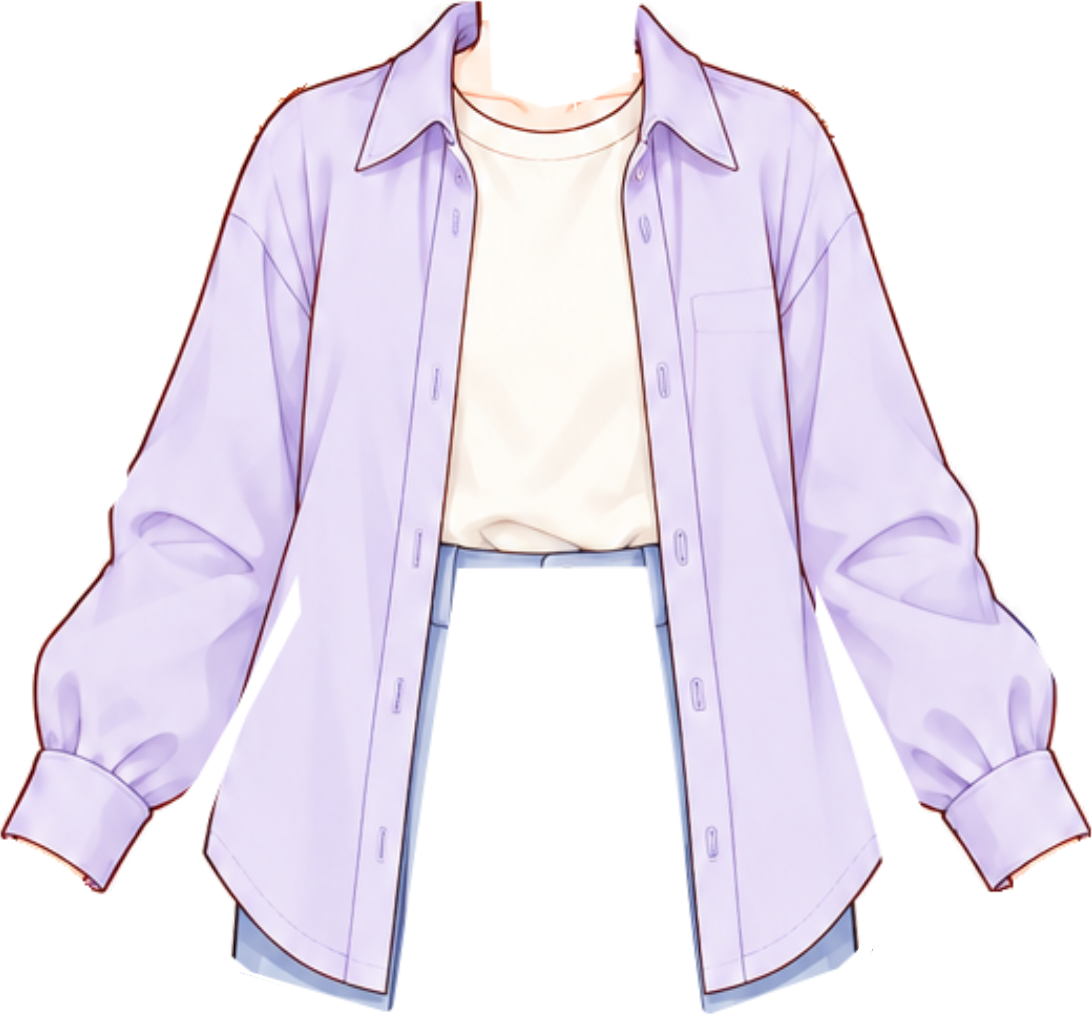
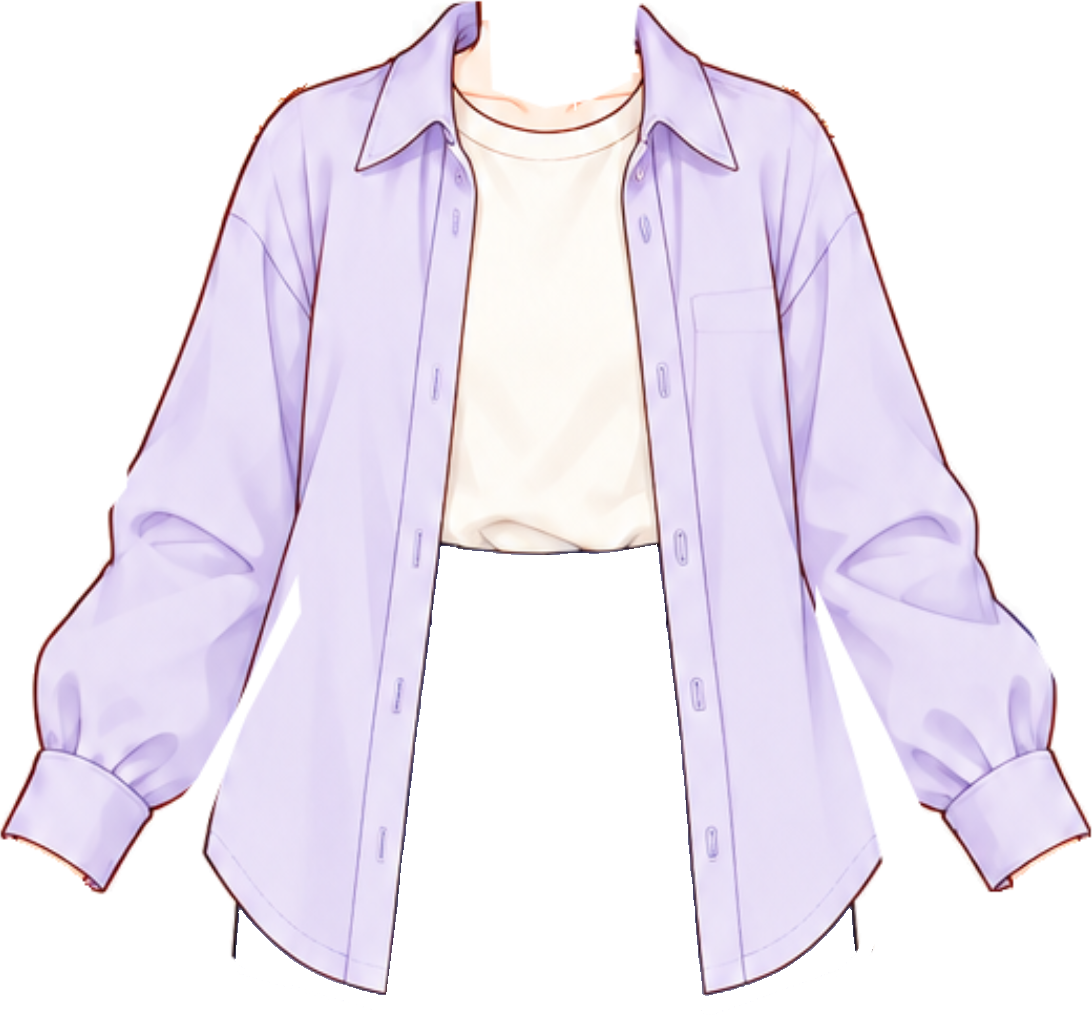
Add garment mesh fitting and remove embedded pants remnants

Changed region(s): [[0.2179, 0.5192, 0.6227, 1.0], [0.6227, 0.7635, 0.8095, 1.0]]

diff --git a/reviews/top-fit/editor.js b/reviews/top-fit/editor.js
@@ -1,26 +1,34 @@
 (()=>{'use strict';
 const $=id=>document.getElementById(id),KEY='character-workshop-top-fit-v87',fresh=()=>({x:0,y:0,width:100,height:100}),specs=[['x','左右の位置','px',-250,250,1],['y','上下の位置','px',-250,250,1],['width','横の伸縮','%',60,150,.1],['height','縦の伸縮','%',60,150,.1]];
+let meshOffsets={},selectedPoint=-1,undoStack=[],redoStack=[],warpCache=null;
 let catalog,top,pants,values={},images={},ready=false,request=0,drag;const pending=new Map(),recent=[];
 const current=()=>values[top]||fresh();function message(s){$('status').textContent=s;}
 async function load(id,url){if(images[id])return;if(!pending.has(id))pending.set(id,(async()=>{const im=new Image();im.src=url;await im.decode();images[id]=im;})().finally(()=>pending.delete(id)));await pending.get(id);}
-function payload(){return {schema:'character-workshop-top-fit',version:1,source:catalog.source,canvas:catalog.canvas,origin:catalog.origin,fixedPants:catalog.fixedPants,upperPositions:values,selected:{top,pants}};}
-function valid(p){if(!p||p.schema!=='character-workshop-top-fit'||p.version!==1||p.source!==catalog.source||!p.upperPositions||typeof p.upperPositions!=='object')throw Error('トップス用の調整JSONを選んでください。');for(const item of catalog.pants)for(const k of ['x','y','width','height'])if(p.fixedPants?.[item.id]?.[k]!==catalog.fixedPants[item.id][k])throw Error('パンツの固定位置が異なります。');const result={};for(const [id,v]of Object.entries(p.upperPositions)){if(!catalog.tops.some(t=>t.id===id))throw Error('未対応のトップスです。');result[id]={};for(const [k,l,u,min,max]of specs){if(typeof v?.[k]!=='number'||!Number.isFinite(v[k])||v[k]<min||v[k]>max)throw Error('調整値が範囲外です。');result[id][k]=v[k];}}return result;}
+function payload(){return {schema:'character-workshop-top-fit',version:2,meshOffsets,source:catalog.source,canvas:catalog.canvas,origin:catalog.origin,fixedPants:catalog.fixedPants,upperPositions:values,selected:{top,pants}};}
+function valid(p){if(!p||p.schema!=='character-workshop-top-fit'||![1,2].includes(p.version)||p.source!==catalog.source||!p.upperPositions||typeof p.upperPositions!=='object')throw Error('トップス用の調整JSONを選んでください。');for(const item of catalog.pants)for(const k of ['x','y','width','height'])if(p.fixedPants?.[item.id]?.[k]!==catalog.fixedPants[item.id][k])throw Error('パンツの固定位置が異なります。');const result={};for(const [id,v]of Object.entries(p.upperPositions)){if(!catalog.tops.some(t=>t.id===id))throw Error('未対応のトップスです。');result[id]={};for(const [k,l,u,min,max]of specs){if(typeof v?.[k]!=='number'||!Number.isFinite(v[k])||v[k]<min||v[k]>max)throw Error('調整値が範囲外です。');result[id][k]=v[k];}}return result;}
+function meshFrom(p){const result={};for(const id of Object.keys(p.upperPositions||{}))result[id]=GarmentMesh.zeros();for(const [id,v]of Object.entries(p.meshOffsets||{})){const meta=catalog.tops.find(t=>t.id===id);if(!meta||!GarmentMesh.valid(meta.meshBox,v))throw Error('変形の格子が不正です。');result[id]=v.map(a=>[...a]);}return result;}
+function mesh(){return meshOffsets[top]||(meshOffsets[top]=GarmentMesh.zeros());}
+function snapshot(){return JSON.stringify({values,meshOffsets});}function remember(){undoStack.push(snapshot());if(undoStack.length>60)undoStack.shift();redoStack=[];}function restore(s){const p=JSON.parse(s);values=p.values;meshOffsets=p.meshOffsets;warpCache=null;sync();store();}function historyButtons(){$('undo').disabled=!undoStack.length;$('redo').disabled=!redoStack.length;}
 function store(){try{localStorage.setItem(KEY,JSON.stringify(payload()));message('このブラウザに自動保存しました。パンツの位置は固定しています。');}catch{message('ブラウザに保存できません。JSONか共有リンクで保存してください。');}}
-function drawTop(x,alpha=1){const a=catalog.tops.find(t=>t.id===top),v=current(),[ox,oy]=catalog.origin;x.save();x.globalAlpha=alpha;x.translate(ox+v.x,oy+v.y);x.scale(v.width/100,v.height/100);x.translate(-ox,-oy);x.drawImage(images[top],a.x,a.y,a.w,a.h);x.restore();}
+function drawTop(x,alpha=1){const a=catalog.tops.find(t=>t.id===top),v=current(),[ox,oy]=catalog.origin;x.save();x.globalAlpha=alpha;x.translate(ox+v.x,oy+v.y);x.scale(v.width/100,v.height/100);x.translate(-ox,-oy);const key=top+JSON.stringify(mesh());if(warpCache?.key!==key)warpCache={key,canvas:GarmentMesh.raster(images[top],a,mesh())};x.drawImage(warpCache.canvas,0,0);x.restore();}
 function drawScene(x,alpha=1){BodyGuide.draw(x);const p=catalog.pants.find(p=>p.id===pants),v=p.fixed,[ox,oy]=[1036,1290];x.save();x.translate(ox+v.x,oy+v.y);x.scale(v.width/100,v.height/100);x.translate(-ox,-oy);x.drawImage(images['pants-'+pants],p.x,p.y,p.w,p.h);x.restore();if($('show-top').checked)drawTop(x,alpha);x.drawImage(images.head,0,0,2048,3072);}
-function render(){if(!ready)return;for(const [id,rect]of [['full',[0,0,2048,3072]],['upper',[480,700,1152,1152]]]){const cv=$(id),x=cv.getContext('2d');x.fillStyle='white';x.fillRect(0,0,cv.width,cv.height);x.save();x.scale(cv.width/rect[2],cv.height/rect[3]);x.translate(-rect[0],-rect[1]);drawScene(x,Number($('opacity').value)/100);if($('guides').checked)BodyGuide.guides(x);x.restore();}const hidden=!$('show-top').checked;document.querySelectorAll('#controls input,#controls button,#reset,#opacity').forEach(el=>el.disabled=hidden);$('opacity-value').textContent=$('opacity').value+'%';}
+function render(){if(!ready)return;for(const [id,rect]of [['full',[0,0,2048,3072]],['upper',[480,700,1152,1152]]]){const cv=$(id),x=cv.getContext('2d');x.fillStyle='white';x.fillRect(0,0,cv.width,cv.height);x.save();x.scale(cv.width/rect[2],cv.height/rect[3]);x.translate(-rect[0],-rect[1]);drawScene(x,Number($('opacity').value)/100);if($('guides').checked)BodyGuide.guides(x);if($('mesh-grid').checked&&$('show-top').checked)drawMesh(x,rect[2]/cv.width);x.restore();}const hidden=!$('show-top').checked;document.querySelectorAll('#controls input,#controls button,#reset,#opacity').forEach(el=>el.disabled=hidden);$('opacity-value').textContent=$('opacity').value+'%';historyButtons();}
 function sync(){for(const [id]of specs){$(id+'-number').value=current()[id];$(id+'-range').value=current()[id];}document.querySelector('input[name=top][value='+top+']').checked=true;document.querySelector('input[name=pants][value='+pants+']').checked=true;$('editing-title').textContent=catalog.tops.find(t=>t.id===top).name+'の調整';const p=catalog.pants.find(p=>p.id===pants);$('fixed-summary').textContent='パンツ固定：'+p.name+' ／ 左右 '+p.fixed.x+'px・上下 '+p.fixed.y+'px・縦横100%';render();}
-function changed(v){values[top]={...v};$('share-box').hidden=true;sync();store();}
-async function select(group,id){const ticket=++request;try{if(group==='top'){const item=catalog.tops.find(t=>t.id===id);await load(id,item.url);if(ticket!==request)return;top=id;recent.push(id);while(recent.length>3){const old=recent.shift();if(old!==top&&!recent.includes(old))delete images[old];}}else pants=id;sync();store();history.replaceState(null,'','?top='+top+'&pants='+pants);}catch{sync();message('服の画像を読み込めませんでした。もう一度選んでください。');}}
+function changed(v){remember();values[top]={...v};$('share-box').hidden=true;sync();store();}
+async function select(group,id){const ticket=++request;try{if(group==='top'){const item=catalog.tops.find(t=>t.id===id);await load(id,item.url);if(ticket!==request)return;top=id;selectedPoint=-1;recent.push(id);while(recent.length>3){const old=recent.shift();if(old!==top&&!recent.includes(old))delete images[old];}}else pants=id;sync();store();history.replaceState(null,'','?top='+top+'&pants='+pants);}catch{sync();message('服の画像を読み込めませんでした。もう一度選んでください。');}}
 function download(blob,name){const url=URL.createObjectURL(blob),a=document.createElement('a');a.href=url;a.download=name;a.click();setTimeout(()=>URL.revokeObjectURL(url),30000);}
 for(const [id,label,unit,min,max,step]of specs){const box=document.createElement('div');box.className='control';box.innerHTML='<div class="control-title"><label for="'+id+'-number">'+label+'（'+unit+'）</label><input id="'+id+'-number" type="number" min="'+min+'" max="'+max+'" step="'+step+'" value="'+fresh()[id]+'"></div><div class="range-line"><button type="button" data-delta="-1" aria-label="'+label+'を減らす">−</button><input id="'+id+'-range" aria-label="'+label+'のスライダー" type="range" min="'+min+'" max="'+max+'" step="'+step+'" value="'+fresh()[id]+'"><button type="button" data-delta="1" aria-label="'+label+'を増やす">＋</button></div>';$('controls').append(box);const set=n=>{if(Number.isFinite(n))changed({...current(),[id]:Math.round(Math.max(min,Math.min(max,n))*10)/10});};$(id+'-number').addEventListener('change',e=>{if(e.target.value===''){sync();return;}set(Number(e.target.value));});$(id+'-range').addEventListener('input',e=>set(Number(e.target.value)));box.querySelectorAll('button').forEach(b=>b.addEventListener('click',()=>set(current()[id]+Number(b.dataset.delta)*(id==='x'||id==='y'?1:.5))));}
-for(const [id,rect]of [['full',[0,0,2048,3072]],['upper',[480,700,1152,1152]]]){const cv=$(id);cv.addEventListener('pointerdown',e=>{if(!ready||e.button!==0||!$('show-top').checked)return;drag={pointer:e.pointerId,x:e.clientX,y:e.clientY,value:{...current()}};cv.setPointerCapture(e.pointerId);});cv.addEventListener('pointermove',e=>{if(!drag||drag.pointer!==e.pointerId)return;const r=cv.getBoundingClientRect();values[top]={...drag.value,x:Math.round(Math.max(-250,Math.min(250,drag.value.x+(e.clientX-drag.x)*rect[2]/r.width))),y:Math.round(Math.max(-250,Math.min(250,drag.value.y+(e.clientY-drag.y)*rect[3]/r.height)))};sync();});const stop=e=>{if(drag?.pointer===e.pointerId){drag=null;$('share-box').hidden=true;store();}};for(const event of ['pointerup','pointercancel','lostpointercapture'])cv.addEventListener(event,stop);}
+function worldPoint(p){const v=current(),[ox,oy]=catalog.origin;return [ox+v.x+(p[0]-ox)*v.width/100,oy+v.y+(p[1]-oy)*v.height/100];}
+function drawMesh(x,scale){const a=catalog.tops.find(t=>t.id===top),pts=GarmentMesh.points(a.meshBox,mesh()).map(worldPoint);x.save();x.lineWidth=scale;x.strokeStyle='rgba(101,60,160,.65)';x.beginPath();for(let r=0;r<5;r++)for(let c=0;c<5;c++){let i=r*5+c;if(c<4){x.moveTo(...pts[i]);x.lineTo(...pts[i+1]);}if(r<4){x.moveTo(...pts[i]);x.lineTo(...pts[i+5]);}}x.stroke();pts.forEach((p,i)=>{x.beginPath();x.arc(...p,(i===selectedPoint?7:5)*scale,0,Math.PI*2);x.fillStyle=i===selectedPoint?'#e36b16':'white';x.fill();x.strokeStyle='#713ba0';x.lineWidth=1.5*scale;x.stroke();});x.restore();}
+function setPoint(index,p){const next=mesh().map(a=>[...a]);next[index]=p.map(n=>Math.round(Math.max(-400,Math.min(400,n))));if(!GarmentMesh.valid(catalog.tops.find(t=>t.id===top).meshBox,next)){message('格子が交差するため、この位置には動かせません。');return false;}meshOffsets[top]=next;warpCache=null;$('mesh-selected').textContent='点 '+(index+1)+'：左右 '+next[index][0]+'px・上下 '+next[index][1]+'px';sync();return true;}
+for(const [id,rect]of [['full',[0,0,2048,3072]],['upper',[480,700,1152,1152]]]){const cv=$(id);cv.addEventListener('pointerdown',e=>{if(!ready||e.button!==0||!$('show-top').checked)return;const r=cv.getBoundingClientRect(),p=[rect[0]+(e.clientX-r.left)*rect[2]/r.width,rect[1]+(e.clientY-r.top)*rect[3]/r.height],mode=document.querySelector('input[name=operation]:checked').value;let index=-1;if(mode==='mesh'){const pts=GarmentMesh.points(catalog.tops.find(t=>t.id===top).meshBox,mesh()).map(worldPoint);let distance=24*rect[2]/r.width;pts.forEach((v,i)=>{const d=Math.hypot(v[0]-p[0],v[1]-p[1]);if(d<distance){index=i;distance=d;}});if(index<0){message('丸い格子点をドラッグしてください。服全体を動かすときは「服全体を移動」を選びます。');return;}selectedPoint=index;$('mesh-grid').checked=true;}remember();drag={pointer:e.pointerId,x:e.clientX,y:e.clientY,value:{...current()},index,offset:index>=0?[...mesh()[index]]:null};cv.setPointerCapture(e.pointerId);sync();});cv.addEventListener('pointermove',e=>{if(!drag||drag.pointer!==e.pointerId)return;const r=cv.getBoundingClientRect(),dx=(e.clientX-drag.x)*rect[2]/r.width,dy=(e.clientY-drag.y)*rect[3]/r.height;if(drag.index>=0)setPoint(drag.index,[drag.offset[0]+dx*100/current().width,drag.offset[1]+dy*100/current().height]);else{values[top]={...drag.value,x:Math.round(Math.max(-250,Math.min(250,drag.value.x+dx))),y:Math.round(Math.max(-250,Math.min(250,drag.value.y+dy)))};sync();}});const stop=e=>{if(drag?.pointer===e.pointerId){drag=null;$('share-box').hidden=true;store();historyButtons();}};for(const event of ['pointerup','pointercancel','lostpointercapture'])cv.addEventListener(event,stop);}
+$('undo').onclick=()=>{if(!undoStack.length)return;redoStack.push(snapshot());restore(undoStack.pop());};$('redo').onclick=()=>{if(!redoStack.length)return;undoStack.push(snapshot());restore(redoStack.pop());};$('mesh-reset').onclick=()=>{remember();meshOffsets[top]=GarmentMesh.zeros();warpCache=null;sync();store();};for(const [id,dx,dy]of [['point-left',-1,0],['point-right',1,0],['point-up',0,-1],['point-down',0,1],['point-reset',0,0]])$(id).onclick=()=>{if(selectedPoint<0)return;remember();const p=mesh()[selectedPoint];setPoint(selectedPoint,id==='point-reset'?[0,0]:[p[0]+dx,p[1]+dy]);store();};$('mesh-grid').onchange=render;
 for(const id of ['guides','show-top'])$(id).addEventListener('change',render);$('opacity').addEventListener('input',render);$('reset').addEventListener('click',()=>changed(fresh()));
 $('save').addEventListener('click',()=>download(new Blob([JSON.stringify(payload(),null,2)],{type:'application/json'}),'top-positions-'+new Date().toISOString().slice(0,10)+'.json'));
-$('load').addEventListener('click',()=>$('file').click());$('file').addEventListener('change',async e=>{const f=e.target.files[0];if(!f)return;try{if(f.size>100000)throw Error('ファイルが大きすぎます。');const p=JSON.parse(await f.text()),next=valid(p);Object.assign(values,next);sync();store();$('share-box').hidden=true;message('トップスの調整値を読み込みました。パンツの固定値は変更していません。');}catch(e){message('読み込めませんでした：'+e.message);}finally{$('file').value='';}});
+$('load').addEventListener('click',()=>$('file').click());$('file').addEventListener('change',async e=>{const f=e.target.files[0];if(!f)return;try{if(f.size>100000)throw Error('ファイルが大きすぎます。');const p=JSON.parse(await f.text()),next=valid(p),nextMesh=meshFrom(p);remember();Object.assign(values,next);Object.assign(meshOffsets,nextMesh);warpCache=null;sync();store();$('share-box').hidden=true;message('トップスの調整値を読み込みました。パンツの固定値は変更していません。');}catch(e){message('読み込めませんでした：'+e.message);}finally{$('file').value='';}});
 function png(onlyTop){const cv=document.createElement('canvas');cv.width=2048;cv.height=3072;const x=cv.getContext('2d');if(onlyTop)drawTop(x);else{drawScene(x);BodyGuide.guides(x);}cv.toBlob(b=>{if(b)download(b,(onlyTop?'top-only-':'top-reference-')+top+'.png');},'image/png');}$('png').addEventListener('click',()=>png(false));$('top-png').addEventListener('click',()=>png(true));
 $('share').addEventListener('click',async()=>{const u=new URL(location.href);u.search='?top='+top+'&pants='+pants;u.hash='top='+btoa(JSON.stringify(payload()));$('share-box').hidden=false;$('share-url').value=u.href;try{await navigator.clipboard.writeText(u.href);$('share-message').textContent='リンクをコピーしました。';}catch{$('share-url').focus();$('share-url').select();$('share-message').textContent='リンクをコピーして送ってください。';}});
-(async()=>{try{const r=await fetch('assets/catalog.json?v=87');if(!r.ok)throw Error('素材一覧を取得できません');catalog=await r.json();for(const t of catalog.tops)values[t.id]=fresh();let saved;try{saved=JSON.parse(localStorage.getItem(KEY)||'null');if(saved)Object.assign(values,valid(saved));}catch{saved=null;}const q=new URLSearchParams(location.search);top=q.get('top')||saved?.selected?.top||'hoodie';pants=q.get('pants')||saved?.selected?.pants||'shorts';if(!catalog.tops.some(t=>t.id===top))top='hoodie';if(!catalog.pants.some(p=>p.id===pants))pants='shorts';let shared=false;if(location.hash.startsWith('#top=')){try{Object.assign(values,valid(JSON.parse(atob(decodeURIComponent(location.hash.slice(5))))));shared=true;}catch{message('共有リンクを読み込めませんでした。保存値を使います。');}}
+(async()=>{try{const r=await fetch('assets/catalog.json?v=88');if(!r.ok)throw Error('素材一覧を取得できません');catalog=await r.json();for(const t of catalog.tops)values[t.id]=fresh();let saved;try{saved=JSON.parse(localStorage.getItem(KEY)||'null');if(saved){const v=valid(saved),m=meshFrom(saved);Object.assign(values,v);Object.assign(meshOffsets,m);}}catch{saved=null;}const q=new URLSearchParams(location.search);top=q.get('top')||saved?.selected?.top||'hoodie';pants=q.get('pants')||saved?.selected?.pants||'shorts';if(!catalog.tops.some(t=>t.id===top))top='hoodie';if(!catalog.pants.some(p=>p.id===pants))pants='shorts';let shared=false;if(location.hash.startsWith('#top=')){try{const p=JSON.parse(atob(decodeURIComponent(location.hash.slice(5)))),v=valid(p),m=meshFrom(p);Object.assign(values,v);Object.assign(meshOffsets,m);shared=true;}catch{message('共有リンクを読み込めませんでした。保存値を使います。');}}
  for(const [group,items]of [['top',catalog.tops],['pants',catalog.pants]])for(const item of items){const label=document.createElement('label'),input=document.createElement('input');input.type='radio';input.name=group;input.value=item.id;input.addEventListener('change',()=>select(group,item.id));label.append(input,document.createTextNode(item.name));$(group==='top'?'tops':'pants').append(label);}
- await Promise.all([BodyGuide.load(),load('head','assets/head.svg?v=87'),load(top,catalog.tops.find(t=>t.id===top).url),...catalog.pants.map(p=>load('pants-'+p.id,p.url))]);recent.push(top);ready=true;$('editor').hidden=false;sync();if(shared)store();message('パンツは共通位置に固定されています。トップスを素体へ合わせてください。');window.topFitReady=true;}catch(e){message('読み込めませんでした。再読み込みしてください。 '+e.message);}})();
+ await Promise.all([BodyGuide.load(),load('head','assets/head.svg?v=87'),load(top,catalog.tops.find(t=>t.id===top).url),...catalog.pants.map(p=>load('pants-'+p.id,p.url))]);recent.push(top);ready=true;$('editor').hidden=false;sync();if(shared)store();message('パンツは共通位置に固定されています。格子点をドラッグして、袖や裾を素体へ合わせてください。');window.topFitReady=true;}catch(e){message('読み込めませんでした。再読み込みしてください。 '+e.message);}})();
 })();

diff --git a/reviews/top-fit/index.html b/reviews/top-fit/index.html
@@ -1,1 +1,1 @@
-<!doctype html><html lang="ja"><head><meta charset="utf-8"><meta name="viewport" content="width=device-width,initial-scale=1"><title>トップスの位置合わせ｜キャラクターデザイン工房</title><link rel="stylesheet" href="../pants-fit/editor.css?v=87"></head><body><main><h1>トップスの位置合わせ</h1><p>パンツは今回合わせた共通位置に固定し、トップスだけを素体に合わせます。トップスの調整値は、パンツを切り替えても同じです。</p><p id="status" role="status">素材を読み込んでいます…</p><div id="editor" hidden><fieldset><legend>調整するトップス</legend><div id="tops" class="choices"></div></fieldset><fieldset><legend>組み合わせを確認するパンツ（位置固定）</legend><div id="pants" class="choices"></div></fieldset><p id="fixed-summary" class="hint"></p><div class="workspace"><section class="views"><div class="view"><h2>全身</h2><canvas id="full" width="512" height="768" aria-label="全身。ドラッグでトップスだけを移動"></canvas></div><div class="view"><h2>肩・腰・裾の拡大</h2><canvas id="upper" width="768" height="768" aria-label="上半身の拡大。ドラッグでトップスだけを移動"></canvas><p class="hint">肩と襟を合わせてから、幅と丈を確認します。ドラッグでも移動できます。</p></div></section><section class="panel"><h2 id="editing-title">トップスの調整</h2><div id="controls"></div><div class="toggles"><label><input type="checkbox" id="show-top" checked>トップスを表示</label><label><input type="checkbox" id="guides" checked>素体の基準点・線を表示</label><label>服の濃さ <output id="opacity-value">100%</output><input type="range" id="opacity" min="25" max="100" step="5" value="100" aria-label="確認用のトップスの濃さ"></label></div><button type="button" id="reset">このトップスを初期位置に戻す</button><p class="hint">袖口や裾の形が合わない箇所は、位置を決めてから部分的に整えます。</p><hr><div class="actions"><button id="save">すべてのトップスの調整値を保存</button><button id="load">トップスの調整値を読み込む</button><input id="file" type="file" accept=".json,application/json" hidden><button id="share">引き継ぎリンクを作る</button><button id="png">素体・服・基準点の確認PNGを保存</button><button id="top-png">トップスだけの透過PNGを保存</button></div><label id="share-box" hidden>共有リンク<input id="share-url" type="text" readonly><span id="share-message"></span></label><p class="hint">調整値はこのブラウザに自動保存されます。別の端末へはJSONか共有リンクで引き継げます。保存する服は確認用の濃さにかかわらず100%です。</p><p><a href="../body-guide/index.html?v=86">固定素体と基準点</a> ／ <a href="../pants-fit/index.html?v=87&view=pants">パンツの位置合わせ</a></p></section></div></div></main><script src="../body-guide/body-guide.js?v=86"></script><script src="editor.js?v=87"></script></body></html>
+<!doctype html><html lang="ja"><head><meta charset="utf-8"><meta name="viewport" content="width=device-width,initial-scale=1"><title>トップスの位置合わせ｜キャラクターデザイン工房</title><link rel="stylesheet" href="../pants-fit/editor.css?v=87"><style>canvas{touch-action:none}fieldset label{display:inline-block;margin:4px}#mesh-selected{font-size:.9rem}#upper{cursor:crosshair}.point-actions{grid-template-columns:repeat(4,minmax(0,1fr))}.point-actions button:last-child{grid-column:1/-1}.history-actions{grid-template-columns:1fr 1fr}.history-actions button:last-child{grid-column:1/-1}</style></head><body><main><h1>トップスの位置合わせ</h1><p>格子の点をドラッグして、袖・身幅・裾を別々に変形できます。パンツと素体は固定しています。トップスの調整値は、パンツを切り替えても同じです。</p><p id="status" role="status">素材を読み込んでいます…</p><div id="editor" hidden><fieldset><legend>調整するトップス</legend><div id="tops" class="choices"></div></fieldset><fieldset><legend>組み合わせを確認するパンツ（位置固定）</legend><div id="pants" class="choices"></div></fieldset><p id="fixed-summary" class="hint"></p><div class="workspace"><section class="views"><div class="view"><h2>全身</h2><canvas id="full" width="512" height="768" aria-label="全身。ドラッグでトップスだけを移動"></canvas></div><div class="view"><h2>肩・腰・裾の拡大</h2><canvas id="upper" width="768" height="768" aria-label="上半身の拡大。ドラッグでトップスだけを移動"></canvas><p class="hint">肩と襟を合わせてから、幅と丈を確認します。格子点をドラッグして袖と裾を合わせます。</p></div></section><section class="panel"><h2 id="editing-title">トップスの調整</h2><fieldset><legend>操作</legend><label><input type="radio" name="operation" value="mesh" checked>形を変える</label> <label><input type="radio" name="operation" value="move">服全体を移動</label></fieldset><p class="hint">拡大画面の丸い点をドラッグ。タッチ操作にも対応しています。</p><div class="actions history-actions"><button id="undo" disabled>元に戻す</button><button id="redo" disabled>やり直す</button><button id="mesh-reset">この服の変形を戻す</button></div><label><input id="mesh-grid" type="checkbox" checked>変形の格子を表示</label><p id="mesh-selected" role="status">点を選ぶと微調整できます。</p><div class="actions point-actions"><button id="point-left" aria-label="選択した点を左へ">←</button><button id="point-up" aria-label="選択した点を上へ">↑</button><button id="point-down" aria-label="選択した点を下へ">↓</button><button id="point-right" aria-label="選択した点を右へ">→</button><button id="point-reset">選択した点を戻す</button></div><hr><div id="controls"></div><div class="toggles"><label><input type="checkbox" id="show-top" checked>トップスを表示</label><label><input type="checkbox" id="guides" checked>素体の基準点・線を表示</label><label>服の濃さ <output id="opacity-value">100%</output><input type="range" id="opacity" min="25" max="100" step="5" value="100" aria-label="確認用のトップスの濃さ"></label></div><button type="button" id="reset">このトップスを初期位置に戻す</button><p class="hint">格子の点が交差する変形は止まります。細かく動かして袖口と裾を合わせてください。</p><hr><div class="actions"><button id="save">すべてのトップスの調整値を保存</button><button id="load">トップスの調整値を読み込む</button><input id="file" type="file" accept=".json,application/json" hidden><button id="share">引き継ぎリンクを作る</button><button id="png">素体・服・基準点の確認PNGを保存</button><button id="top-png">トップスだけの透過PNGを保存</button></div><label id="share-box" hidden>共有リンク<input id="share-url" type="text" readonly><span id="share-message"></span></label><p class="hint">調整値はこのブラウザに自動保存されます。別の端末へはJSONか共有リンクで引き継げます。保存する服は確認用の濃さにかかわらず100%です。</p><p><a href="../body-guide/index.html?v=86">固定素体と基準点</a> ／ <a href="../pants-fit/index.html?v=87&view=pants">パンツの位置合わせ</a></p></section></div></div></main><script src="../body-guide/body-guide.js?v=86"></script><script src="mesh.js?v=88"></script><script src="editor.js?v=88"></script></body></html>

diff --git a/reviews/body-guide/index.html b/reviews/body-guide/index.html
@@ -1,2 +1,2 @@
 <!doctype html><html lang="ja"><head><meta charset="utf-8"><meta name="viewport" content="width=device-width,initial-scale=1"><title>服合わせの固定素体と基準点｜キャラクターデザイン工房</title><link rel="stylesheet" href="page.css?v=86"></head>
-<body><main><h1>服合わせの固定素体と基準点</h1><p>今のキャラクターの腕・脚・靴の位置を固定し、不透明な練習スーツで全身を覆いました。服をこの基準へ合わせていきます。</p><p id="status" role="status">素体を読み込んでいます…</p><div class="layout"><section class="figure"><canvas id="preview" width="768" height="1152" aria-label="練習用スーツの固定素体と12個の基準点"></canvas></section><section class="panel"><h2>共通の基準</h2><p>肩・腰・ヒップ・股・膝・足首に、12個の点を置いています。基準点は服を切り替えても動きません。</p><div class="toggles"><label><input id="guides" type="checkbox" checked>基準点と線を表示</label><label><input id="labels" type="checkbox" checked>線の名前を表示</label><label><input id="grid" type="checkbox">マス目を表示</label></div><p class="actions"><a class="primary" href="../pants-fit/index.html?v=86&view=pants">素体にパンツを合わせる</a><button id="body-png" disabled>素体だけのPNGを保存</button><button id="guide-png" disabled>基準点つきPNGを保存</button><button id="lines-png" disabled>基準線だけのPNGを保存</button><button id="json" disabled>基準点のJSONを保存</button><a href="reference-body.svg?v=86" download="fixed-body-v86.svg">素体のSVGを保存</a></p><p class="note">肩や胴は、服に隠れていた部分を補った簡略図です。胸部などの細部を描かず、服合わせの目安として使います。</p><details><summary>基準点の座標（2048 × 3072）</summary><div class="table-scroll"><table><thead><tr><th>基準点</th><th>X</th><th>Y</th></tr></thead><tbody id="coordinates"></tbody></table></div></details><p><a href="../v85/">服の確認ページへ</a></p></section></div><p><a href="../top-fit/index.html?v=87">トップスの位置合わせへ</a></p></main><script src="body-guide.js?v=86"></script><script src="page.js?v=86"></script></body></html>
+<body><main><h1>服合わせの固定素体と基準点</h1><p>今のキャラクターの腕・脚・靴の位置を固定し、不透明な練習スーツで全身を覆いました。服をこの基準へ合わせていきます。</p><p id="status" role="status">素体を読み込んでいます…</p><div class="layout"><section class="figure"><canvas id="preview" width="768" height="1152" aria-label="練習用スーツの固定素体と12個の基準点"></canvas></section><section class="panel"><h2>共通の基準</h2><p>肩・腰・ヒップ・股・膝・足首に、12個の点を置いています。基準点は服を切り替えても動きません。</p><div class="toggles"><label><input id="guides" type="checkbox" checked>基準点と線を表示</label><label><input id="labels" type="checkbox" checked>線の名前を表示</label><label><input id="grid" type="checkbox">マス目を表示</label></div><p class="actions"><a class="primary" href="../pants-fit/index.html?v=86&view=pants">素体にパンツを合わせる</a><button id="body-png" disabled>素体だけのPNGを保存</button><button id="guide-png" disabled>基準点つきPNGを保存</button><button id="lines-png" disabled>基準線だけのPNGを保存</button><button id="json" disabled>基準点のJSONを保存</button><a href="reference-body.svg?v=86" download="fixed-body-v86.svg">素体のSVGを保存</a></p><p class="note">肩や胴は、服に隠れていた部分を補った簡略図です。胸部などの細部を描かず、服合わせの目安として使います。</p><details><summary>基準点の座標（2048 × 3072）</summary><div class="table-scroll"><table><thead><tr><th>基準点</th><th>X</th><th>Y</th></tr></thead><tbody id="coordinates"></tbody></table></div></details><p><a href="../v85/">服の確認ページへ</a></p></section></div><p><a href="../top-fit/index.html?v=88">トップスの位置合わせへ</a></p></main><script src="body-guide.js?v=86"></script><script src="page.js?v=86"></script></body></html>

diff --git a/reviews/top-fit/mesh.js b/reviews/top-fit/mesh.js
@@ -1,0 +1,8 @@
+/* Piecewise affine garment mesh. Coordinates and offsets use the fixed 2048x3072 canvas. */
+window.GarmentMesh=(()=>{const N=5;const zeros=()=>Array.from({length:N*N},()=>[0,0]);
+function points(box,offsets=zeros()){const [x,y,w,h]=box;return offsets.map((v,i)=>[x+(i%N)*w/(N-1)+v[0],y+Math.floor(i/N)*h/(N-1)+v[1]]);}
+function triangles(){const result=[];for(let y=0;y<N-1;y++)for(let x=0;x<N-1;x++){const a=y*N+x,b=a+1,c=a+N,d=c+1;result.push([a,b,d],[a,d,c]);}return result;}const tris=triangles(),area=(a,b,c)=>(b[0]-a[0])*(c[1]-a[1])-(b[1]-a[1])*(c[0]-a[0]);
+function valid(box,offsets){if(!Array.isArray(offsets)||offsets.length!==N*N)return false;if(offsets.some(v=>!Array.isArray(v)||v.length!==2||v.some(n=>typeof n!=='number'||!Number.isFinite(n)||Math.abs(n)>400)))return false;const s=points(box),d=points(box,offsets);return tris.every(t=>area(...t.map(i=>d[i]))>=area(...t.map(i=>s[i]))*.08);}
+function triangle(ctx,im,src,dst,meta){const [s0,s1,s2]=src,[d0,d1,d2]=dst,ux=s1[0]-s0[0],uy=s1[1]-s0[1],vx=s2[0]-s0[0],vy=s2[1]-s0[1],det=ux*vy-uy*vx;const ax=d1[0]-d0[0],ay=d1[1]-d0[1],bx=d2[0]-d0[0],by=d2[1]-d0[1],a=(ax*vy-bx*uy)/det,b=(ay*vy-by*uy)/det,c=(bx*ux-ax*vx)/det,d=(by*ux-ay*vx)/det;ctx.save();ctx.beginPath();const mid=[(d0[0]+d1[0]+d2[0])/3,(d0[1]+d1[1]+d2[1])/3];dst.forEach((p,i)=>{const dx=p[0]-mid[0],dy=p[1]-mid[1],len=Math.hypot(dx,dy),q=[p[0]+dx/len*.45,p[1]+dy/len*.45];if(i)ctx.lineTo(...q);else ctx.moveTo(...q);});ctx.closePath();ctx.clip();ctx.transform(a,b,c,d,d0[0]-a*s0[0]-c*s0[1],d0[1]-b*s0[0]-d*s0[1]);ctx.drawImage(im,meta.x,meta.y,meta.w,meta.h);ctx.restore();}
+function raster(im,meta,offsets){const cv=document.createElement('canvas');cv.width=2048;cv.height=3072;const ctx=cv.getContext('2d');if(offsets.every(v=>v[0]===0&&v[1]===0)){ctx.drawImage(im,meta.x,meta.y,meta.w,meta.h);return cv;}const src=points(meta.meshBox),dst=points(meta.meshBox,offsets);for(const t of tris)triangle(ctx,im,t.map(i=>src[i]),t.map(i=>dst[i]),meta);return cv;}
+return {N,zeros,points,valid,raster};})();

diff --git a/reviews/pants-fit/index.html b/reviews/pants-fit/index.html
@@ -15,4 +15,4 @@
 <label id="share-box" hidden>別PC・スマホへ送るリンク<input id="share-url" type="text" readonly><span id="share-message"></span></label>
 <p class="hint">今回いただいた調整値を初期位置として用意しています。このブラウザに保存値がある場合は保存値を優先します。調整値はこのブラウザに自動保存されます。別の端末へは共有リンク、または保存したJSONファイルで引き継げます。アプリ本体にはまだ反映されません。</p>
 </section></div><p><a href="../v84/">変更前の比較ページ</a> ／ <a href="../../">公開中の着せ替えアプリ</a></p></div>
-<p><a href="../top-fit/index.html?v=87">パンツを固定してトップスを合わせる</a></p></main><script src="../body-guide/body-guide.js?v=86"></script><script src="editor.js?v=87"></script></body></html>
+<p><a href="../top-fit/index.html?v=88">パンツを固定してトップスを合わせる</a></p></main><script src="../body-guide/body-guide.js?v=86"></script><script src="editor.js?v=87"></script></body></html>
